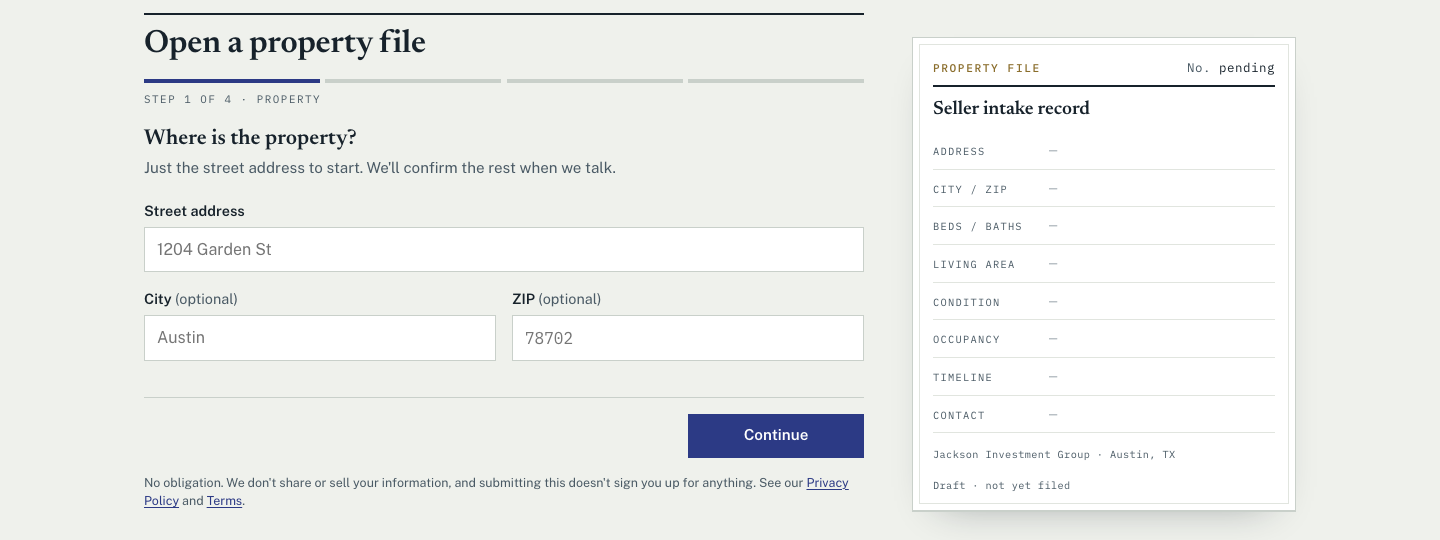
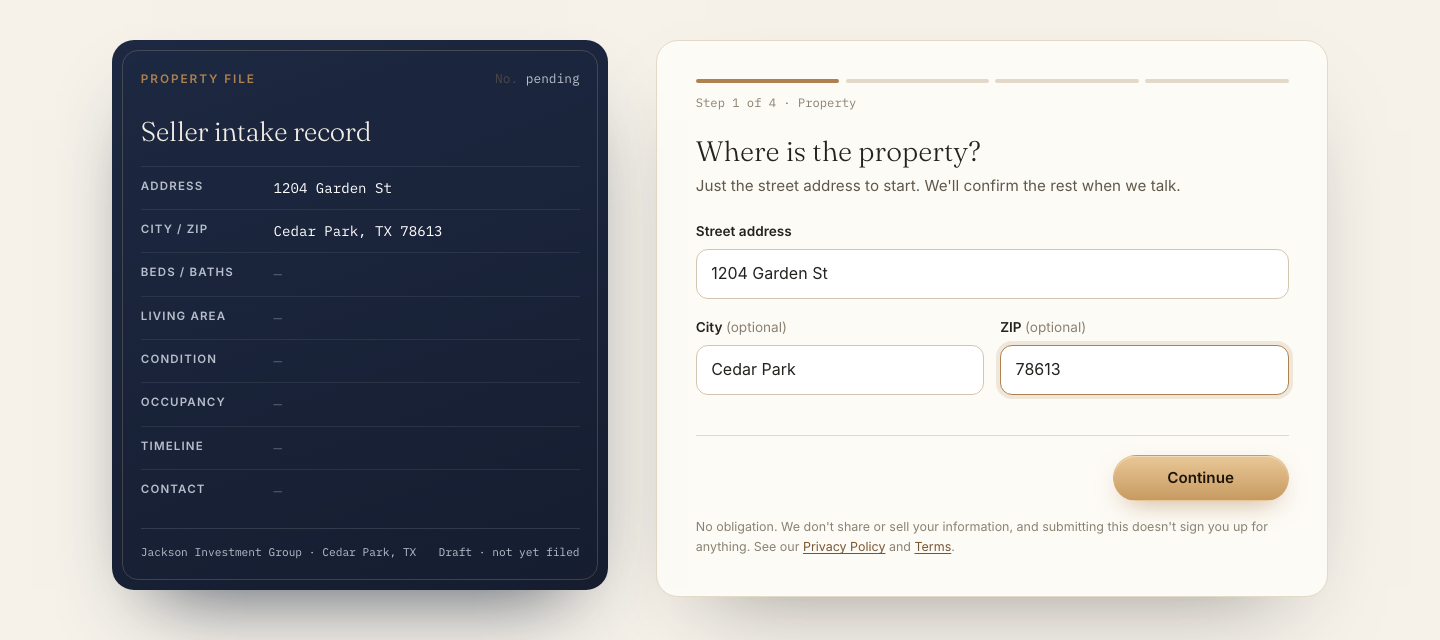
Update Jackson Properties with the redesigned site
New screenshots of the live site (3D hero, offer calculator, service-area
map, property-file intake, buyer list) and copy for the Cedar Park base,
the offer formula and the new homes page and buyer list. The blurred CRM
cover stays.

diff --git a/lib/projects.ts b/lib/projects.ts
@@ -3,8 +3,11 @@ import type { StaticImageData } from "next/image";
 import aiCanvasRouting from "@/assets/work/ai-lead-qualification/canvas-routing.png";
 import aiCanvasEnrichment from "@/assets/work/ai-lead-qualification/canvas-enrichment.png";
 import aiForm from "@/assets/work/ai-lead-qualification/automation1.png";
+import jacksonBuyerList from "@/assets/work/jackson/buyer-list.png";
 import jacksonCrm from "@/assets/work/jackson/crm-pipeline.png";
 import jacksonIntake from "@/assets/work/jackson/intake-form.png";
+import jacksonCalculator from "@/assets/work/jackson/offer-calculator.png";
+import jacksonServiceArea from "@/assets/work/jackson/service-area.png";
 import jacksonSite from "@/assets/work/jackson/site-hero.png";
 import teethlyCover from "@/assets/work/teethly/cover.jpg";
 import teethlyClinicHero from "@/assets/work/teethly/2-clinic-hero.png";
@@ -241,27 +244,27 @@ export const projects: Project[] = [
   },
   {
     slug: "jackson-properties",
-    title: "Jackson Properties: Seller Acquisition Site & Built-in CRM",
+    title: "Jackson Properties: Real Estate Platform & Built-in CRM",
     shortTitle: "Jackson Properties",
     seo: {
-      title: "Jackson Properties: Real Estate CRM",
+      title: "Jackson Properties: Real Estate Platform & CRM",
       description:
-        "Live real estate seller-acquisition site and built-in CRM in Next.js and Laravel: lead capture, nurture automation and a 7-stage deal pipeline.",
+        "Live real estate platform: a 3D seller site with an offer calculator, property-file intake, a buyer list and a built-in CRM with a 7-stage deal pipeline.",
     },
     client: "Jackson Investment Group",
     year: "2026",
     disciplines: ["full-stack", "automation"],
     live: true,
     summary:
-      "A direct-purchase real estate platform for the Austin metro: a public site that turns wary homeowners into structured seller leads, and a built-in CRM where the team nurtures every lead and tracks each deal from first contact to closing.",
-    stack: ["Next.js", "Laravel", "REST API", "Workflow automation", "Microsoft Clarity"],
+      "A direct-purchase real estate platform for a Cedar Park, Texas team: a seller site that shows the offer math up front and turns wary homeowners into structured leads, a homes page with a buyer list, and a built-in CRM where every lead is nurtured and tracked to closing.",
+    stack: ["Next.js", "Laravel", "Three.js", "REST API", "Workflow automation", "Microsoft Clarity"],
     liveUrl: "https://jacksonproperties.us/",
     pitch: {
       eyebrow: "Jackson Properties",
       headline: "From a homeowner's first click to a signed contract.",
-      sub: "Seller acquisition site + built-in CRM",
-      features: ["Lead capture", "Nurture automation", "7-stage deal pipeline", "Offers & contracts"],
-      stack: ["Next.js", "Laravel", "REST API"],
+      sub: "Seller site, buyer list + built-in CRM",
+      features: ["Offer calculator", "Property-file intake", "Buyer list", "7-stage deal pipeline"],
+      stack: ["Next.js", "Laravel", "Three.js"],
     },
     notes: [
       { x: 33.5, y: 14.5, label: "Pipeline health: totals, new this week, under contract, due today" },
@@ -274,37 +277,38 @@ export const projects: Project[] = [
       src: jacksonCrm,
       alt: "Jackson Properties CRM: pipeline summary cards, stage filters, and a kanban board with New, Contacted, Appointment set, Offer made, Under contract and Closed columns. Lead details are blurred for privacy.",
     },
-    result: "Lead capture, nurture and deal pipeline in one system",
+    result: "Seller acquisition, buyer list and deal pipeline in one system",
     caseStudy: {
       kind: "Full-stack product + automation",
       headline: "From a homeowner's first click to a signed contract, in one system.",
       metrics: [
         { value: "4 steps", label: "Seller intake, about 90 seconds" },
         { value: "7", label: "Pipeline stages, new lead to closed" },
-        { value: "1", label: "System for capture, nurture and closing" },
+        { value: "1", label: "System for sellers, buyers and the pipeline" },
       ],
       problem: [
         "A direct-purchase team wins deals on speed and trust. Sellers in a hurry don't wait, so every lead has to be answered fast, followed up consistently, and tracked until the house either closes or the lead goes cold.",
-        'Leads arrive from different places: homeowners who find the website, and property lists the team researches itself. Generic CRMs model sales pipelines, not property deals. And the "we buy houses" category has earned homeowners\' distrust, so the public site had to win a form submission from people who are wary by default.',
+        'The "we buy houses" category has earned homeowners\' distrust: lowball offers, black-box numbers, pressure to sign. The site had to win a property file from people who are wary by default, and the business needed a second side too, a way to line up buyers for the homes it renovates. Generic CRMs model sales pipelines, not property deals.',
       ],
       role: {
         title: "Full-stack engineer, public site, CRM and automation",
         scope: [
-          "Seller-facing site and multi-step intake form",
+          "Seller site with a 3D hero, offer calculator and service-area map",
+          "Multi-step property-file intake",
+          "Homes for sale page and buyer list",
           "Laravel backend and lead data model",
           "Internal CRM: pipeline, kanban and filters",
           "Lead nurture and follow-up automation",
-          "Deployment and production support",
         ],
       },
       architecture: {
         intro:
-          "A Next.js front end serves both sides: the public acquisition site and the authenticated CRM. One Laravel API owns the lead record, so a seller's form submission and a researched list entry become the same kind of deal.",
+          "The public site is built to load fast and earn trust: a Three.js hero, then small, focused pieces for the offer math, the map and the intake. Behind it, one Laravel API owns the lead record, so a seller's property file, a researched list entry and a buyer sign-up all land in the same system the team works from.",
         stages: [
           {
             label: "01 Attract",
             title: "Seller site",
-            nodes: ["Trust-first landing page", "Service areas and FAQs", "Behaviour analytics"],
+            nodes: ["3D house hero, local pitch", "Offer formula you can check", "Service-area map, foreclosure help"],
           },
           {
             label: "02 Capture",
@@ -317,13 +321,22 @@ export const projects: Project[] = [
             nodes: ["Lead ID + source tagging", "Follow-ups and due actions", "Priority by quality + contact"],
           },
           { label: "04 Close", title: "CRM pipeline", nodes: ["7-stage kanban", "Offers and contracts tracked", "Archive and CSV export"] },
+          { label: "05 Resell", title: "Homes + buyer list", nodes: ["Renovated homes page", "Buyer-list sign-up", "Buying method + wish list captured"] },
         ],
-        crossCutting: ["Next.js front end", "Laravel REST API", "Authenticated admin", "Form input hidden from analytics"],
+        crossCutting: ["Laravel REST API", "Authenticated CRM", "Three.js hero", "Form input hidden from analytics"],
       },
       implementation: [
         {
+          title: "Show the math, not a black box",
+          body: "The homepage puts the offer formula on screen: value after repairs, times the ratio, minus repairs. Sellers change the numbers and watch the cash offer move, then compare it with what fixing and listing would cost them in commission, closing costs, repairs and holding costs. It is labeled as an illustration, not an offer.",
+        },
+        {
           title: "A form that feels like opening a file",
           body: 'Instead of a generic contact form, sellers open a "property file": four short steps that start with just the street address. A seller-intake record fills in beside the form as they type, so they can see exactly what they\'re sharing.',
+        },
+        {
+          title: "Local, and able to prove it",
+          body: "An interactive service-area map is centered on Cedar Park: hover a town to see how far it is. County lists, the neighborhoods the team knows, a foreclosure and bankruptcy section, and a plain \"when you shouldn't sell to us\" section all answer the questions wary sellers actually have.",
         },
         {
           title: "One lead model, every source",
@@ -331,20 +344,16 @@ export const projects: Project[] = [
         },
         {
           title: "A pipeline built around how deals move",
-          body: "Seven stages from New to Closed or Dead, as a drag-and-drop kanban or a board view. Quick filters surface what's due today, what's mine and what's under contract, and search is one keystroke away.",
+          body: "Seven stages from New to Closed or Dead, as a drag-and-drop kanban or a board view. Quick filters surface what's due today, what's mine and what's under contract, and built-in automation tracks follow-ups and ranks leads by quality and contact signals.",
         },
         {
-          title: "Nurture that doesn't depend on memory",
-          body: "Built-in automation tracks follow-ups and due actions and ranks leads by quality and contact signals, so the next call is always the right one.",
-        },
-        {
-          title: "Privacy designed into the funnel",
-          body: "What sellers type into the property form is masked from session analytics, and the site tells them plainly that their details are never sold or shared with other buyers.",
+          title: "Both sides of the business",
+          body: "A homes-for-sale page lists renovated houses with what was fixed, and a buyer list captures each buyer's contact, how they're buying and what they're looking for, so the team can reach them before a home is listed.",
         },
       ],
       outcome: [
-        "Live at jacksonproperties.us, serving Travis, Williamson and Hays counties",
-        "Seller acquisition and deal management run in one system the team owns",
+        "Live at jacksonproperties.us, based in Cedar Park and serving Travis, Williamson and Hays counties",
+        "Seller acquisition, the buyer list and deal management run in one system the team owns",
         "Every lead visible in a single pipeline, from intake to closing",
         "Follow-ups and due actions surfaced automatically instead of tracked by hand",
       ],
@@ -356,13 +365,28 @@ export const projects: Project[] = [
         },
         {
           src: jacksonSite,
-          alt: "Jackson Properties homepage: 'Sell your Austin house as-is, on your timeline, with a number you can check.'",
-          caption: "Seller site: a trust-first pitch to wary homeowners.",
+          alt: "Jackson Properties homepage: 'Sell your house as-is, on your date, with a number you can check,' beside a 3D low-poly house, with 0% commission, $0 repairs and 10–14 days to close.",
+          caption: "Seller site: a Three.js house and a promise sellers can check.",
+        },
+        {
+          src: jacksonCalculator,
+          alt: "Offer calculator: value after repairs times 70% minus repairs equals a rough cash offer, beside a fix-and-list cost breakdown with sliders.",
+          caption: "The offer formula, live. The figures are the site's own illustration.",
+        },
+        {
+          src: jacksonServiceArea,
+          alt: "Service-area section: Cedar Park home base, same-week walkthrough areas, neighborhood chips and an interactive map of nearby towns.",
+          caption: "Interactive service-area map, centered on Cedar Park.",
         },
         {
           src: jacksonIntake,
-          alt: "Four-step 'Open a property file' form beside a live seller intake record.",
-          caption: "Property file intake: four steps, with a live record of what the seller is sharing.",
+          alt: "Four-step 'Open a property file' form beside a seller intake record filling in as the seller types.",
+          caption: "Property file intake: the record fills in as the seller types.",
+        },
+        {
+          src: jacksonBuyerList,
+          alt: "Buyer list form: name, buying with, email, phone and what the buyer is looking for.",
+          caption: "Buyer list: buyers hear about each home before it's listed.",
         },
       ],
     },
